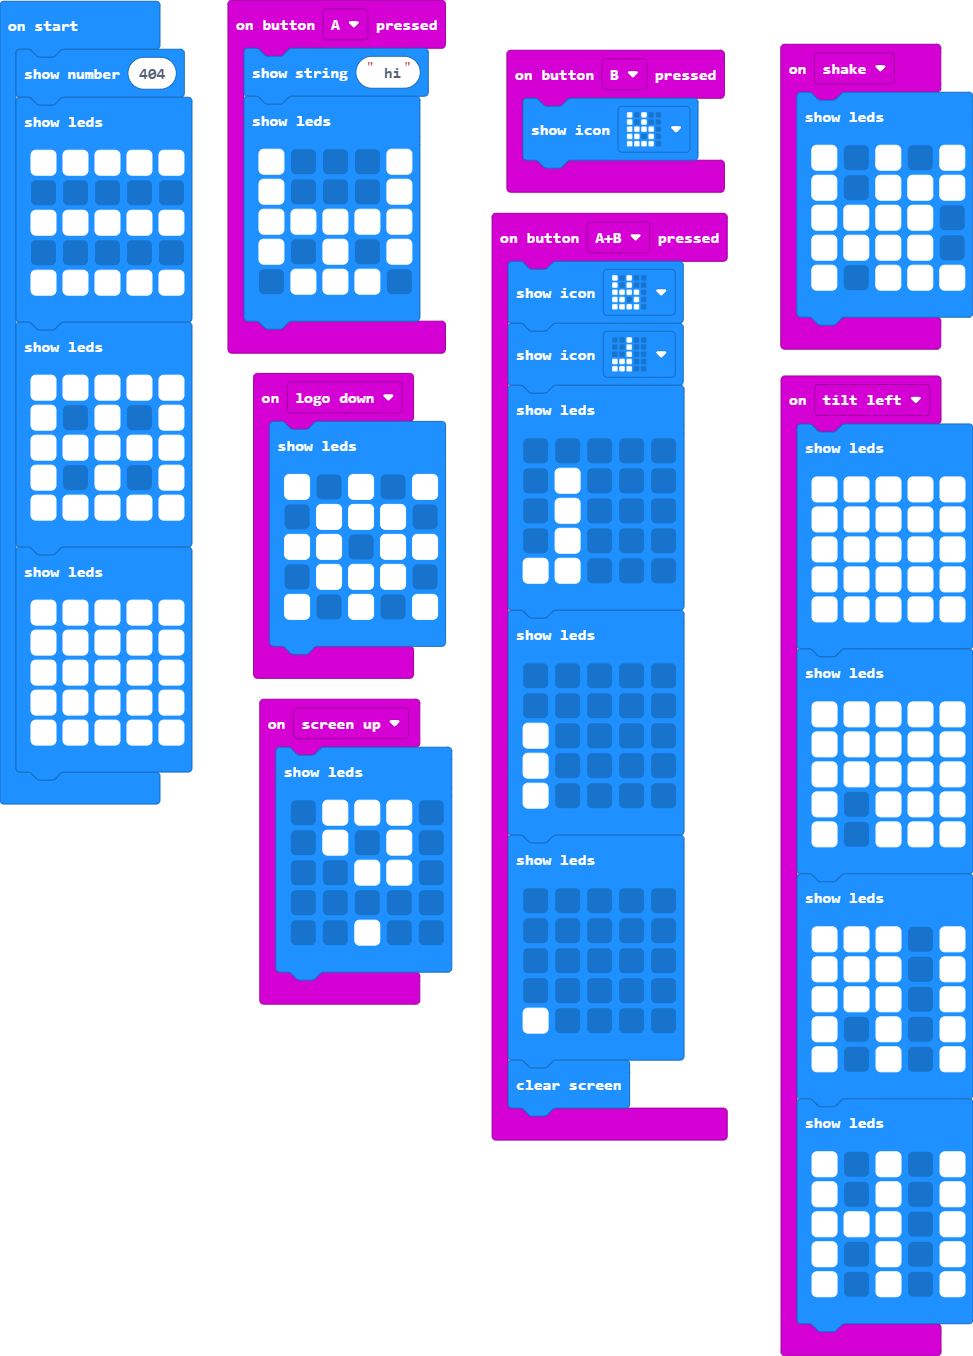
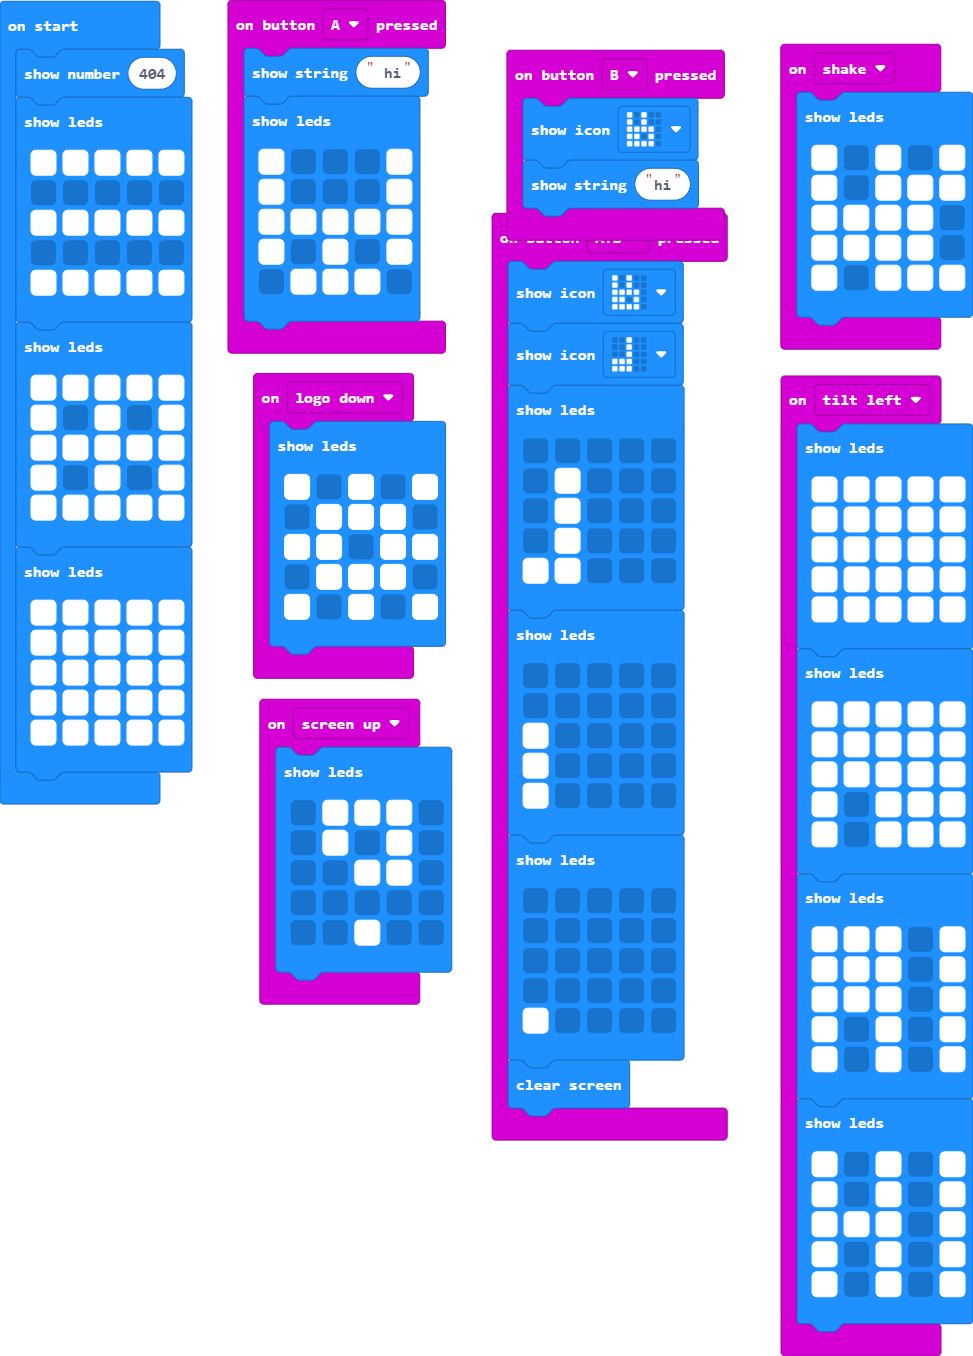
Update main.blocks, main.ts

Changed region(s): [[0.5242, 0.0929, 0.7708, 0.1858]]

diff --git a/main.ts b/main.ts
@@ -75,6 +75,7 @@ input.onButtonPressed(Button.AB, function () {
 })
 input.onButtonPressed(Button.B, function () {
     basic.showIcon(IconNames.Rabbit)
+    basic.showString("hi")
 })
 input.onGesture(Gesture.Shake, function () {
     basic.showLeds(`
